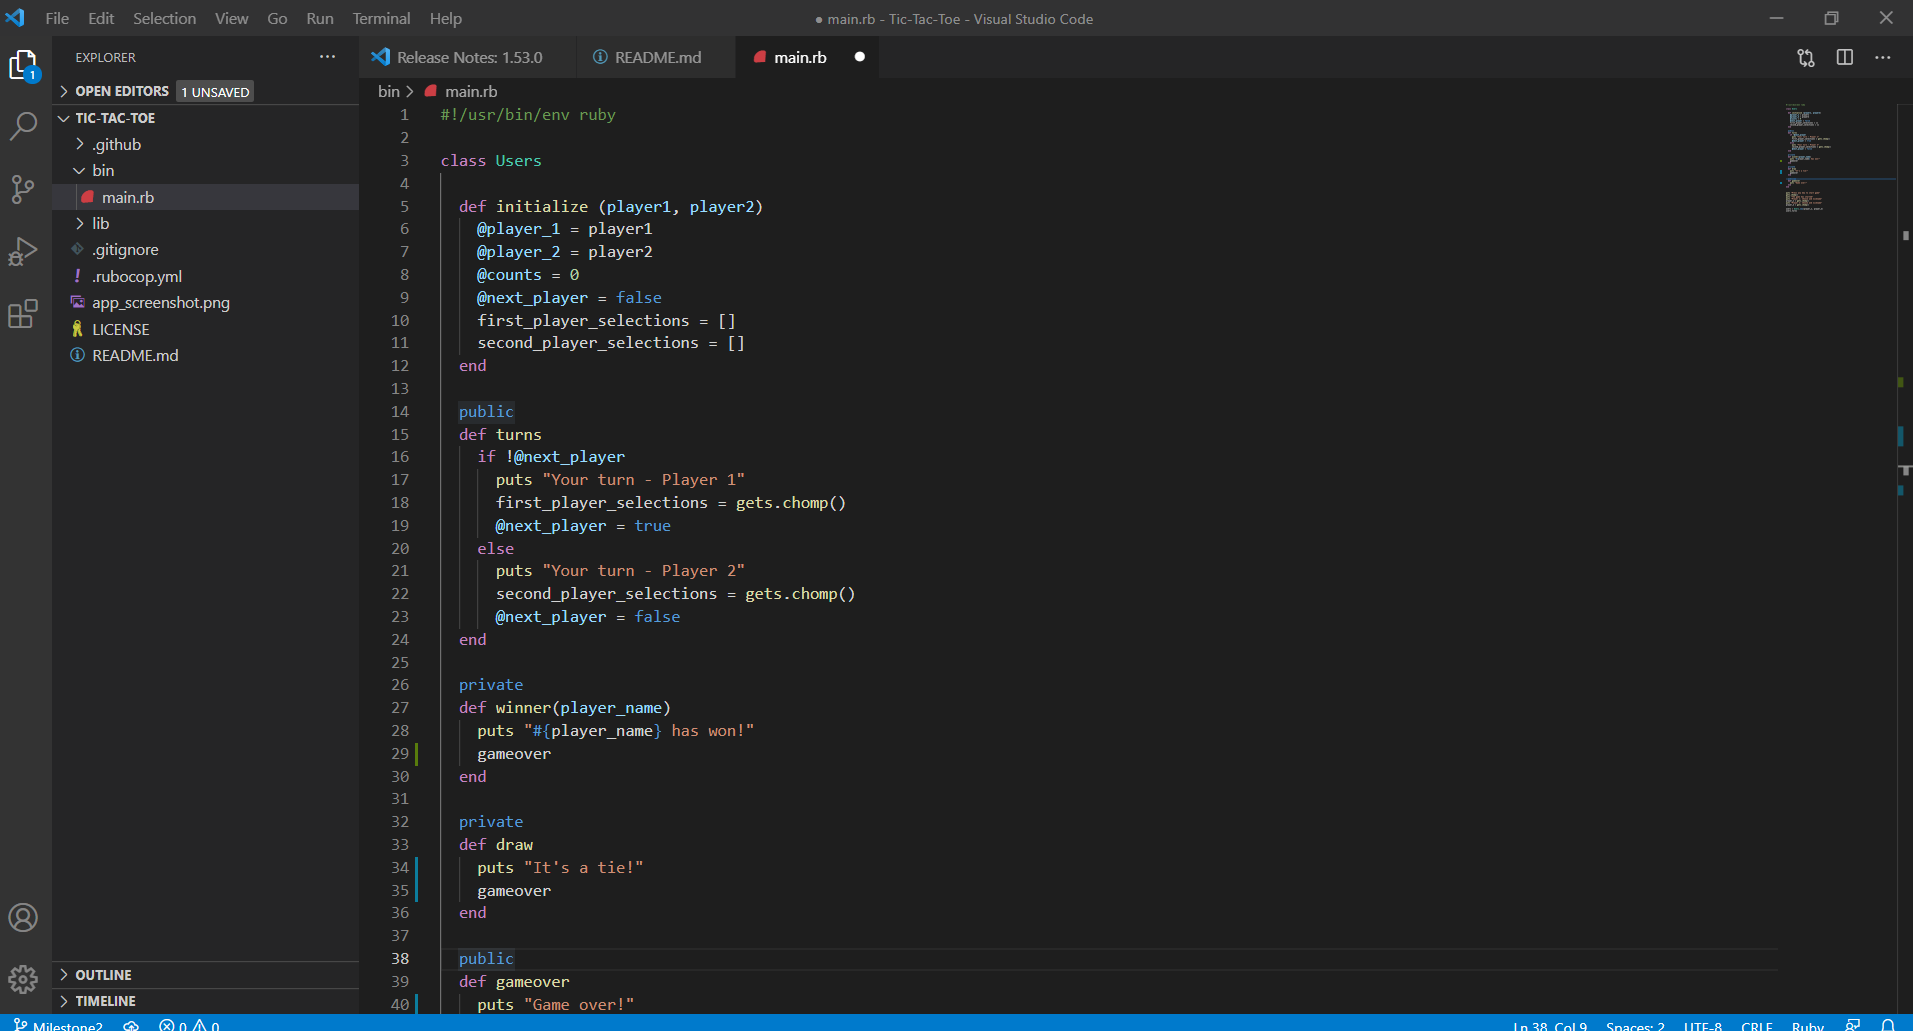
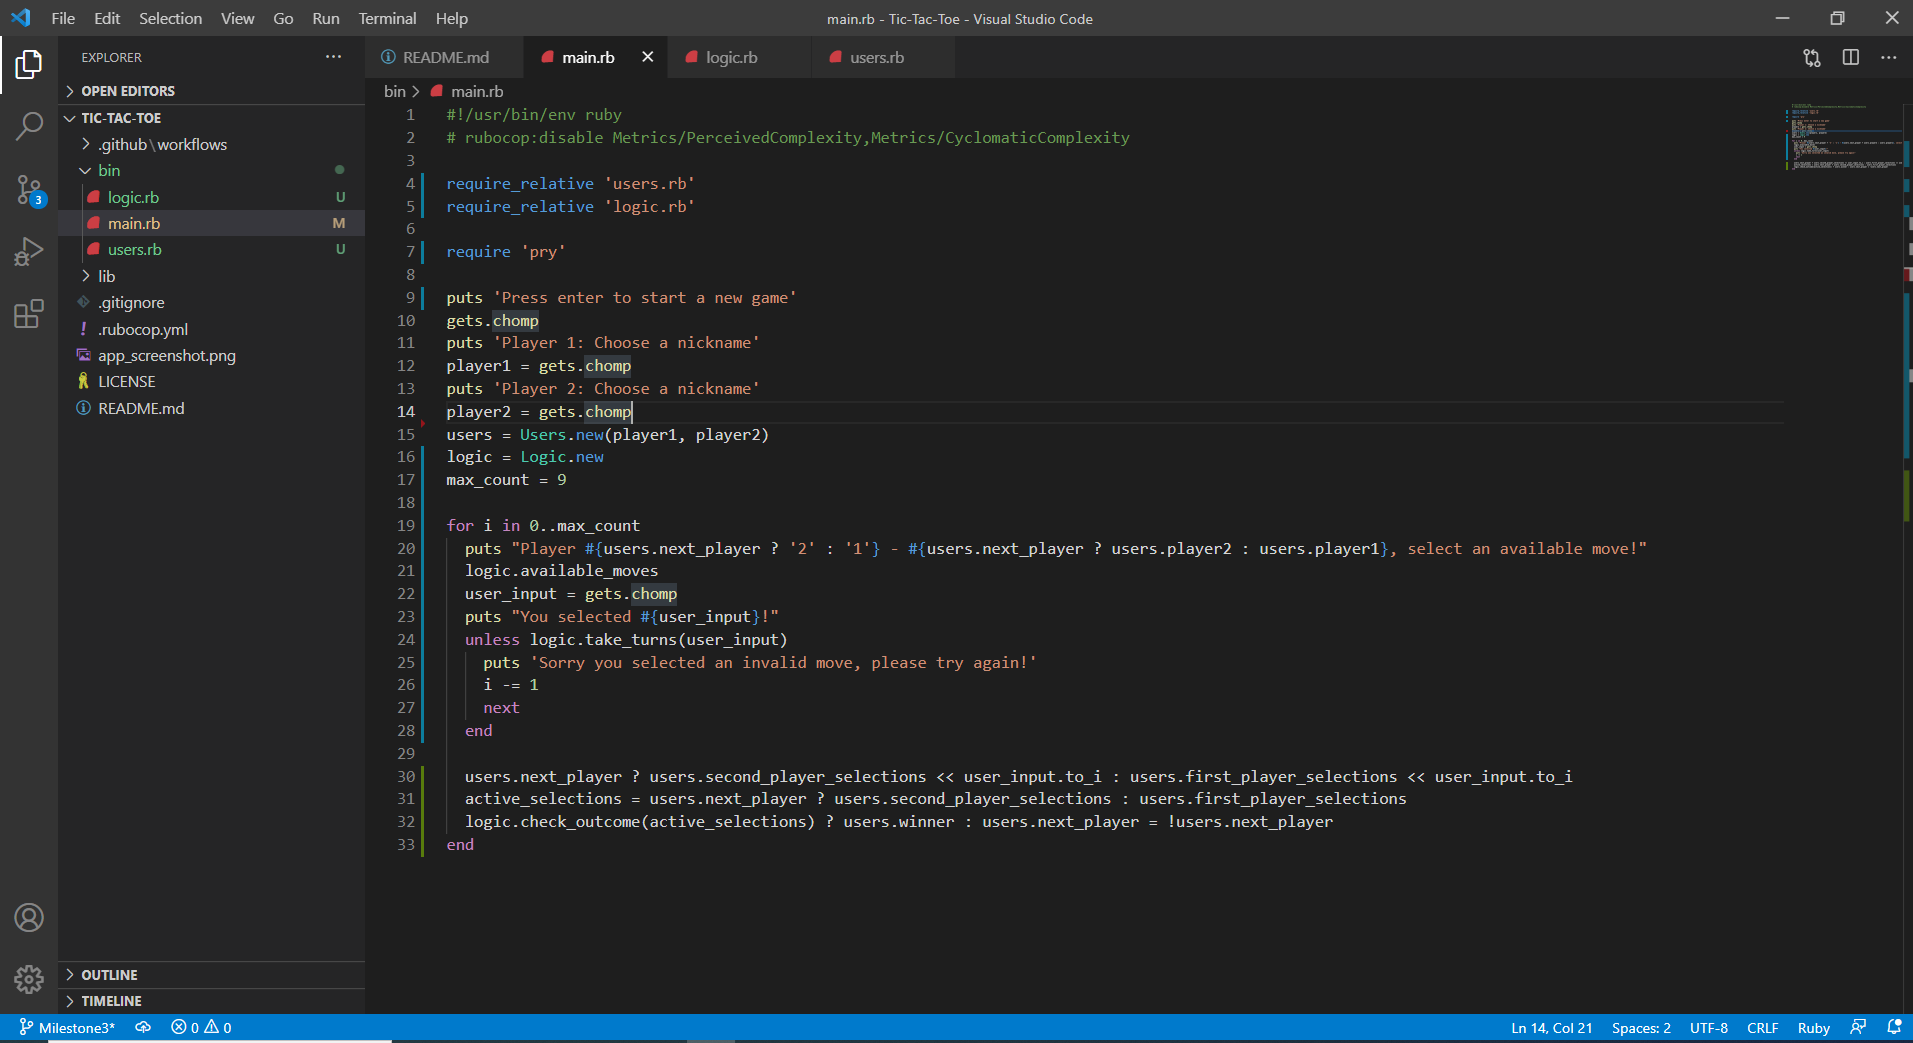
updates for milestone3, classes added to main.rb file

diff --git a/bin/main.rb b/bin/main.rb
@@ -1,87 +1,33 @@
 #!/usr/bin/env ruby
 # rubocop:disable Metrics/PerceivedComplexity,Metrics/CyclomaticComplexity
 
-class Users
-  MAX_COUNTS = 9
-  SUCCESS_OUTCOMES = [
-    [1, 2, 3], [4, 5, 6], [7, 8, 9], [1, 4, 7],
-    [2, 5, 8], [3, 6, 9], [1, 5, 9], [3, 5, 7]
-  ].freeze
+require_relative 'users.rb'
+require_relative 'logic.rb'
 
-  def initialize(player1, player2)
-    @cells = [1, 2, 3, 4, 5, 6, 7, 8, 9]
-    @player1 = player1
-    @player2 = player2
-    @counts = 0
-    @next_player = false
-    @first_player_selections = []
-    @second_player_selections = []
-  end
+require 'pry'
 
-  def take_turns
-    (0..MAX_COUNTS).each do |_i|
-      puts "Player #{@next_player ? '2' : '1'} - #{@next_player ? @player2 : @player1}, select an available move!"
-      available_moves
-      user_input = gets.chomp
-      puts "You selected #{user_input}!"
-      unless @cells.include? user_input.to_i
-        puts 'Invalid move!'
-        next
-      end
-
-      @cells.map! { |item| item == user_input.to_i ? 'x' : item }
-      @next_player ? @second_player_selections << user_input.to_i : @first_player_selections << user_input.to_i
-      @counts += 1
-      break if check_outcome
-    end
-  end
-
-  private
-
-  def check_outcome
-    active_selections = @next_player ? @second_player_selections : @first_player_selections
-    if SUCCESS_OUTCOMES.include? active_selections
-      player_name = @next_player ? @player2 : @player1
-      puts "#{player_name} has won the game!"
-      gameover
-      true
-    elsif (SUCCESS_OUTCOMES.include? active_selections) && @counts == MAX_COUNTS
-      puts "It's a tie!"
-      gameover
-      true
-    else
-      @next_player = !@next_player
-      false
-    end
-  end
-
-  def available_moves
-    puts <<-HEREDOC
-      ---+---+---
-      #{@cells[0]} | #{@cells[1]} | #{@cells[2]}
-      ---+---+---
-      #{@cells[3]} | #{@cells[4]} | #{@cells[5]}
-      ---+---+---
-      #{@cells[6]} | #{@cells[7]} | #{@cells[8]}
-      ---+---+---
-    HEREDOC
-  end
-
-  public
-
-  def gameover
-    puts 'Game over!'
-  end
-end
-
-# rubocop:enable Metrics/PerceivedComplexity,Metrics/CyclomaticComplexity
-
-puts 'Press enter to start game'
+puts 'Press enter to start a new game'
 gets.chomp
 puts 'Player 1: Choose a nickname'
 player1 = gets.chomp
 puts 'Player 2: Choose a nickname'
 player2 = gets.chomp
-
 users = Users.new(player1, player2)
-users.take_turns
+logic = Logic.new
+max_count = 9
+
+for i in 0..max_count
+  puts "Player #{users.next_player ? '2' : '1'} - #{users.next_player ? users.player2 : users.player1}, select an available move!"
+  logic.available_moves
+  user_input = gets.chomp
+  puts "You selected #{user_input}!"
+  unless logic.take_turns(user_input)
+    puts 'Sorry you selected an invalid move, please try again!'
+    i -= 1
+    next
+  end 
+
+  users.next_player ? users.second_player_selections << user_input.to_i : users.first_player_selections << user_input.to_i
+  active_selections = users.next_player ? users.second_player_selections : users.first_player_selections
+  logic.check_outcome(active_selections) ? users.winner : users.next_player = !users.next_player
+end

diff --git a/bin/logic.rb b/bin/logic.rb
@@ -1,0 +1,42 @@
+# rubocop:disable Metrics/PerceivedComplexity,Metrics/CyclomaticComplexity
+
+class Logic
+  attr_accessor :cells
+
+  MAX_COUNTS = 9
+  SUCCESS_OUTCOMES = [
+    [1, 2, 3], [4, 5, 6], [7, 8, 9], [1, 4, 7],
+    [2, 5, 8], [3, 6, 9], [1, 5, 9], [3, 5, 7]
+  ].freeze
+
+  def initialize
+    @cells = [1, 2, 3, 4, 5, 6, 7, 8, 9]
+  end
+
+  def take_turns(user_input)
+    unless @cells.include? user_input.to_i
+      return false
+    end
+    @cells.map! { |item| item == user_input.to_i ? 'x' : item }
+    true
+  end
+
+  def available_moves
+    puts <<-HEREDOC
+      ---+---+---
+      #{@cells[0]} | #{@cells[1]} | #{@cells[2]}
+      ---+---+---
+      #{@cells[3]} | #{@cells[4]} | #{@cells[5]}
+      ---+---+---
+      #{@cells[6]} | #{@cells[7]} | #{@cells[8]}
+      ---+---+---
+    HEREDOC
+  end
+
+  def check_outcome(active_selections)
+    SUCCESS_OUTCOMES.include? active_selections ? true : false
+  end
+
+end
+
+# rubocop:enable Metrics/PerceivedComplexity,Metrics/CyclomaticComplexity

diff --git a/bin/users.rb b/bin/users.rb
@@ -1,0 +1,26 @@
+# rubocop:disable Metrics/PerceivedComplexity,Metrics/CyclomaticComplexity
+
+class Users
+  attr_accessor :player1, :player2, :next_player
+  attr_accessor :first_player_selections, :second_player_selections
+
+  def initialize(player1, player2)
+    @player1 = player1
+    @player2 = player2
+    @next_player = false
+    @first_player_selections = []
+    @second_player_selections = []
+  end
+
+  def winner
+    player_name = @next_player ? @player2 : @player1
+    puts "#{player_name} has won the game!"
+  end
+
+  def draw
+    player_name = @next_player ? @player2 : @player1
+    puts "It's a tie, neither #{player1} nor #{player2} was able to win the game!"
+  end
+end
+
+# rubocop:enable Metrics/PerceivedComplexity,Metrics/CyclomaticComplexity
